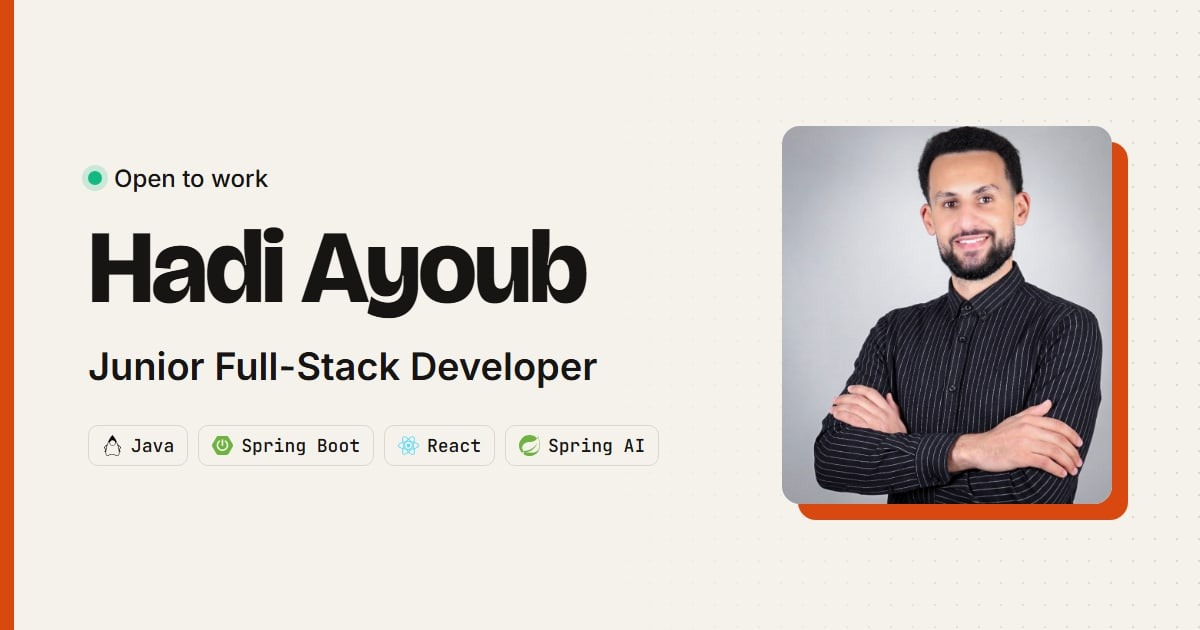
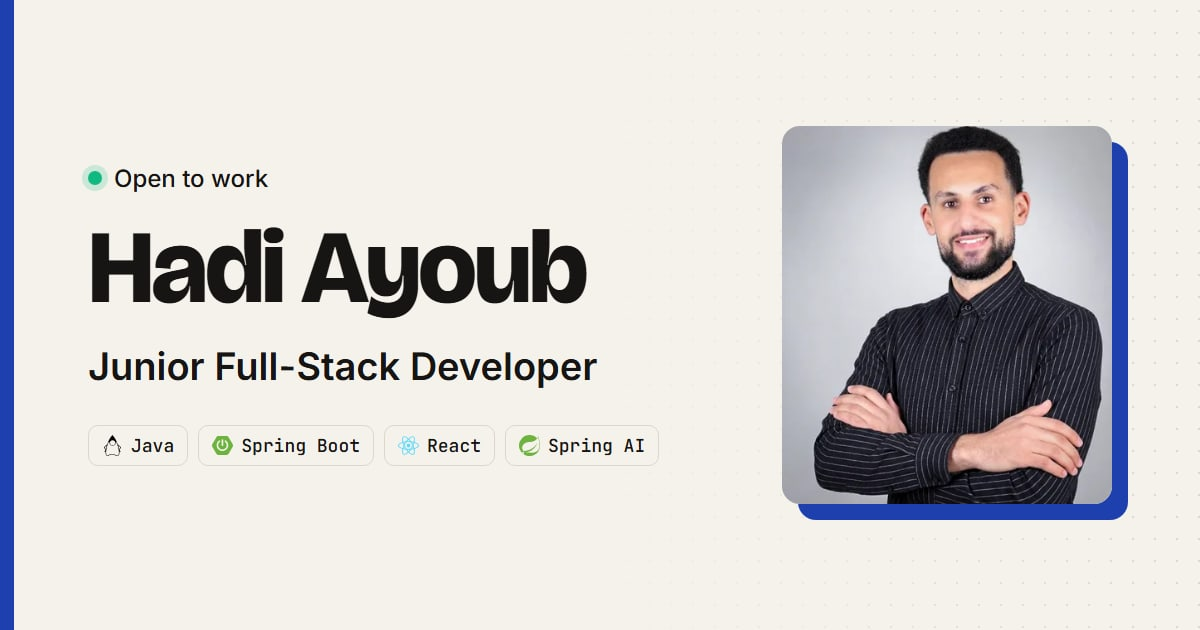
chnage the color

Changed region(s): [[0.6475, 0.2111, 0.9558, 0.8444], [0.0, 0.0, 0.0308, 1.0]]

diff --git a/src/components/Background.tsx b/src/components/Background.tsx
@@ -1,0 +1,190 @@
+// Animated background: a faint dot grid with light pulses travelling along the grid lines
+// (like data in a circuit) and a soft spotlight that follows the mouse.
+// Uses the theme colors, pauses when the tab is hidden, and stays still for
+// visitors who prefer reduced motion.
+
+import { useEffect, useRef } from 'react';
+
+const GAP = 28; // distance between dots, in px
+const SPOTLIGHT = 200; // mouse spotlight radius, in px
+const MAX_PULSES = 8;
+const PULSE_SPEED = 90; // px per second
+const PULSE_TRAIL = 7; // trail length, in grid cells
+const PULSE_EVERY_MS = 650;
+
+interface Pulse {
+  x: number;
+  y: number;
+  dx: number; // direction: -1, 0 or 1
+  dy: number;
+  travelled: number;
+  length: number; // how far it goes before fading out, in px
+}
+
+export function Background() {
+  const canvasRef = useRef<HTMLCanvasElement>(null);
+
+  useEffect(() => {
+    const canvas = canvasRef.current!;
+    const ctx = canvas.getContext('2d')!;
+    const reduceMotion = window.matchMedia('(prefers-reduced-motion: reduce)');
+    const darkMode = window.matchMedia('(prefers-color-scheme: dark)');
+
+    let width = 0;
+    let height = 0;
+    let dotColor = '';
+    let accentColor = '';
+    let mouse: { x: number; y: number } | null = null;
+    let pulses: Pulse[] = [];
+    let lastPulseAt = 0;
+    let lastFrame = 0;
+    let frame = 0;
+
+    function readColors() {
+      const css = getComputedStyle(document.documentElement);
+      dotColor = css.getPropertyValue('--color-muted').trim();
+      accentColor = css.getPropertyValue('--color-accent').trim();
+    }
+
+    function resize() {
+      const ratio = Math.min(window.devicePixelRatio || 1, 2);
+      width = window.innerWidth;
+      height = window.innerHeight;
+      canvas.width = width * ratio;
+      canvas.height = height * ratio;
+      ctx.setTransform(ratio, 0, 0, ratio, 0, 0);
+    }
+
+    function spawnPulse() {
+      const horizontal = Math.random() < 0.5;
+      const dir = Math.random() < 0.5 ? 1 : -1;
+      pulses.push({
+        x: Math.floor((Math.random() * width) / GAP) * GAP + GAP / 2,
+        y: Math.floor((Math.random() * height) / GAP) * GAP + GAP / 2,
+        dx: horizontal ? dir : 0,
+        dy: horizontal ? 0 : dir,
+        travelled: 0,
+        length: GAP * (8 + Math.floor(Math.random() * 10)),
+      });
+    }
+
+    function draw(time: number) {
+      const seconds = lastFrame ? Math.min((time - lastFrame) / 1000, 0.05) : 0;
+      lastFrame = time;
+      ctx.clearRect(0, 0, width, height);
+
+      // 0. Soft accent glow under the mouse
+      if (mouse) {
+        const glow = ctx.createRadialGradient(mouse.x, mouse.y, 0, mouse.x, mouse.y, SPOTLIGHT * 1.6);
+        glow.addColorStop(0, accentColor);
+        glow.addColorStop(1, 'transparent');
+        ctx.globalAlpha = 0.07;
+        ctx.fillStyle = glow;
+        ctx.fillRect(mouse.x - SPOTLIGHT * 1.6, mouse.y - SPOTLIGHT * 1.6, SPOTLIGHT * 3.2, SPOTLIGHT * 3.2);
+      }
+
+      // 1. Dot grid, brighter near the mouse
+      ctx.fillStyle = dotColor;
+      for (let x = GAP / 2; x < width; x += GAP) {
+        for (let y = GAP / 2; y < height; y += GAP) {
+          let alpha = 0.35;
+          let size = 1;
+          if (mouse) {
+            const distance = Math.hypot(x - mouse.x, y - mouse.y);
+            if (distance < SPOTLIGHT) {
+              const t = 1 - distance / SPOTLIGHT;
+              alpha += t * 0.55;
+              size += t * 1.2;
+            }
+          }
+          ctx.globalAlpha = alpha;
+          ctx.fillRect(x - size / 2, y - size / 2, size, size);
+        }
+      }
+
+      // 2. Light pulses moving along the grid lines, with a fading trail
+      if (!reduceMotion.matches) {
+        if (time - lastPulseAt > PULSE_EVERY_MS && pulses.length < MAX_PULSES) {
+          spawnPulse();
+          lastPulseAt = time;
+        }
+        ctx.strokeStyle = accentColor;
+        ctx.lineCap = 'round';
+        ctx.lineWidth = 1.5;
+        ctx.shadowColor = accentColor;
+        ctx.shadowBlur = 8; // soft glow
+        for (const p of pulses) {
+          p.travelled += PULSE_SPEED * seconds;
+          const headX = p.x + p.dx * p.travelled;
+          const headY = p.y + p.dy * p.travelled;
+          const trail = Math.min(p.travelled, GAP * PULSE_TRAIL);
+          // fade in at the start, fade out at the end
+          const life = Math.min(p.travelled / GAP, (p.length - p.travelled) / GAP, 1);
+          const gradient = ctx.createLinearGradient(headX - p.dx * trail, headY - p.dy * trail, headX, headY);
+          gradient.addColorStop(0, 'transparent');
+          gradient.addColorStop(1, accentColor);
+          ctx.globalAlpha = Math.max(life, 0) * 0.45;
+          ctx.strokeStyle = gradient;
+          ctx.beginPath();
+          ctx.moveTo(headX - p.dx * trail, headY - p.dy * trail);
+          ctx.lineTo(headX, headY);
+          ctx.stroke();
+          ctx.fillStyle = accentColor;
+          ctx.fillRect(headX - 2, headY - 2, 4, 4);
+        }
+        pulses = pulses.filter((p) => p.travelled < p.length);
+        ctx.shadowBlur = 0;
+      }
+      ctx.globalAlpha = 1;
+    }
+
+    function loop(time: number) {
+      draw(time);
+      frame = requestAnimationFrame(loop);
+    }
+
+    function start() {
+      cancelAnimationFrame(frame);
+      lastFrame = 0;
+      if (reduceMotion.matches) draw(0); // still dot grid only
+      else frame = requestAnimationFrame(loop);
+    }
+
+    const onMouseMove = (e: MouseEvent) => {
+      mouse = { x: e.clientX, y: e.clientY };
+      if (reduceMotion.matches) draw(0);
+    };
+    const onMouseLeave = () => (mouse = null);
+    const onVisibility = () => (document.hidden ? cancelAnimationFrame(frame) : start());
+    const onResize = () => {
+      resize();
+      if (reduceMotion.matches) draw(0);
+    };
+    const onThemeChange = () => {
+      readColors();
+      if (reduceMotion.matches) draw(0);
+    };
+
+    readColors();
+    resize();
+    start();
+    window.addEventListener('resize', onResize);
+    window.addEventListener('mousemove', onMouseMove);
+    document.addEventListener('mouseleave', onMouseLeave);
+    document.addEventListener('visibilitychange', onVisibility);
+    darkMode.addEventListener('change', onThemeChange);
+    reduceMotion.addEventListener('change', start);
+
+    return () => {
+      cancelAnimationFrame(frame);
+      window.removeEventListener('resize', onResize);
+      window.removeEventListener('mousemove', onMouseMove);
+      document.removeEventListener('mouseleave', onMouseLeave);
+      document.removeEventListener('visibilitychange', onVisibility);
+      darkMode.removeEventListener('change', onThemeChange);
+      reduceMotion.removeEventListener('change', start);
+    };
+  }, []);
+
+  return <canvas ref={canvasRef} aria-hidden="true" className="pointer-events-none fixed inset-0 -z-10 size-full" />;
+}

diff --git a/scripts/favicon.html b/scripts/favicon.html
@@ -8,7 +8,7 @@
   /* Bricolage Grotesque 800, only the letters H and A, embedded so the icon renders offline */
[1 lines of base64/hex data omitted]
   html, body { margin: 0; width: 512px; height: 512px; background: transparent; overflow: hidden; }
-  .icon { width: 512px; height: 512px; border-radius: 116px; background: #d9480f; display: grid; place-items: center; }
+  .icon { width: 512px; height: 512px; border-radius: 116px; background: #1e40af; display: grid; place-items: center; }
   .square .icon { border-radius: 0; }
   span { font: 800 250px/1 "IconFont", sans-serif; color: #fff; letter-spacing: -0.02em; margin-top: -14px; }
 </style>

diff --git a/scripts/og-image.html b/scripts/og-image.html
@@ -12,12 +12,12 @@
   .badge i { width: 14px; height: 14px; border-radius: 50%; background: #10b981; box-shadow: 0 0 0 6px rgba(16,185,129,.18); display: block; }
   h1 { font: 800 104px/0.95 'Bricolage Grotesque', sans-serif; letter-spacing: -0.03em; margin-top: 26px; }
   .role { margin-top: 26px; font-size: 38px; font-weight: 600; }
-  .role span { color: #d9480f; }
+  .role span { color: #1e40af; }
   .stack { margin-top: 36px; display: flex; flex-wrap: wrap; gap: 10px; }
   .pill { display: inline-flex; align-items: center; gap: 8px; padding: 8px 13px; border: 1.5px solid #dcd6cb; border-radius: 10px; font: 500 18px 'JetBrains Mono', monospace; background: #f5f2ec; }
   .pill img { width: 21px; height: 21px; }
-  .photo { width: 330px; height: 378px; border-radius: 18px; object-fit: cover; box-shadow: 16px 16px 0 #d9480f; }
-  .bar { position: absolute; left: 0; top: 0; bottom: 0; width: 14px; background: #d9480f; }
+  .photo { width: 330px; height: 378px; border-radius: 18px; object-fit: cover; box-shadow: 16px 16px 0 #1e40af; }
+  .bar { position: absolute; left: 0; top: 0; bottom: 0; width: 14px; background: #1e40af; }
 </style>
 </head>
 <body>

diff --git a/src/index.css b/src/index.css
@@ -9,7 +9,7 @@
   --color-ink: #161514;     /* text */
   --color-muted: #6b665e;   /* secondary text */
   --color-line: #dcd6cb;    /* borders */
-  --color-accent: #d9480f;  /* the one accent color */
+  --color-accent: #1e40af;  /* the one accent color (dark blue) */
 
   /* Arabic font is in every stack: Latin text keeps its font, Arabic uses IBM Plex Sans Arabic */
   --font-sans: "Inter", "IBM Plex Sans Arabic", system-ui, sans-serif;
@@ -24,7 +24,7 @@
     --color-ink: #ece8e1;
     --color-muted: #9c968c;
     --color-line: #2c2a27;
-    --color-accent: #ff7a3d;
+    --color-accent: #5b8def;
   }
 }
 

diff --git a/src/App.tsx b/src/App.tsx
@@ -5,12 +5,14 @@ import { Experience } from './components/Experience';
 import { Projects } from './components/Projects';
 import { Contact } from './components/Contact';
 import { usePaging } from './components/usePaging';
+import { Background } from './components/Background';
 
 export default function App() {
   usePaging();
 
   return (
     <div className="mx-auto max-w-6xl px-6 sm:px-10 lg:grid lg:grid-cols-[minmax(0,5fr)_minmax(0,7fr)] lg:gap-20">
+      <Background />
       <Sidebar />
       <main>
         <About />
